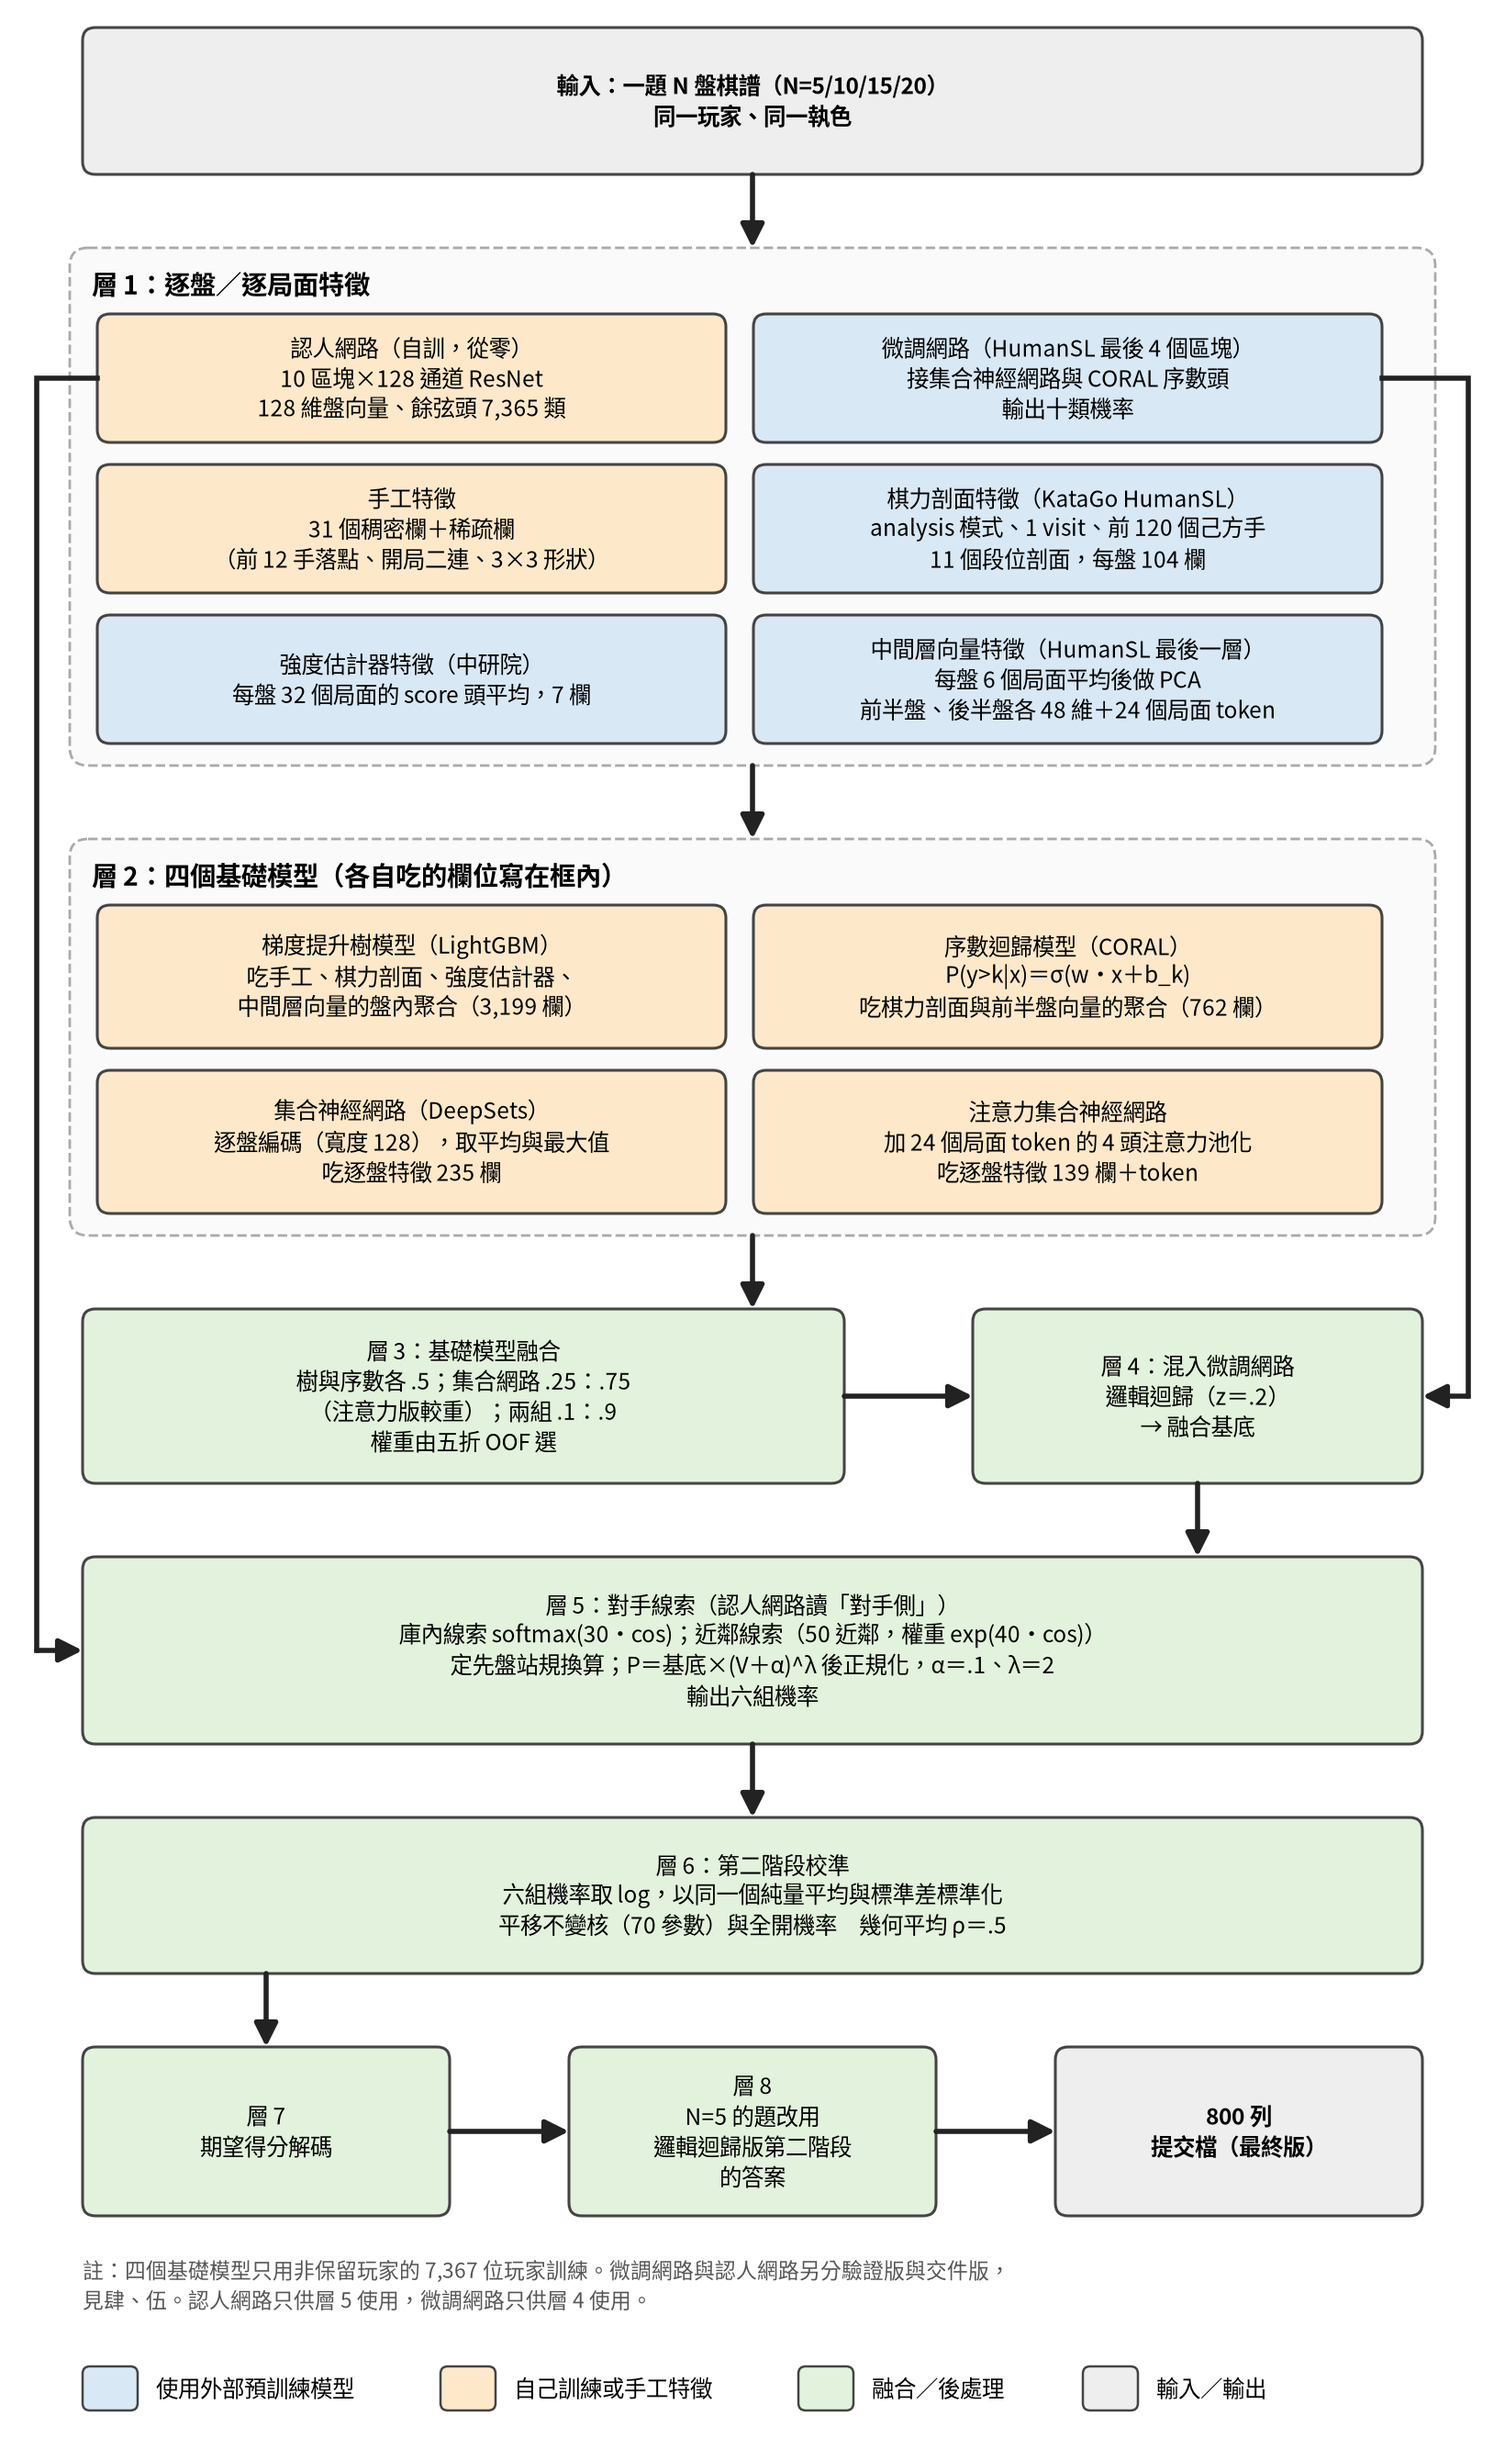
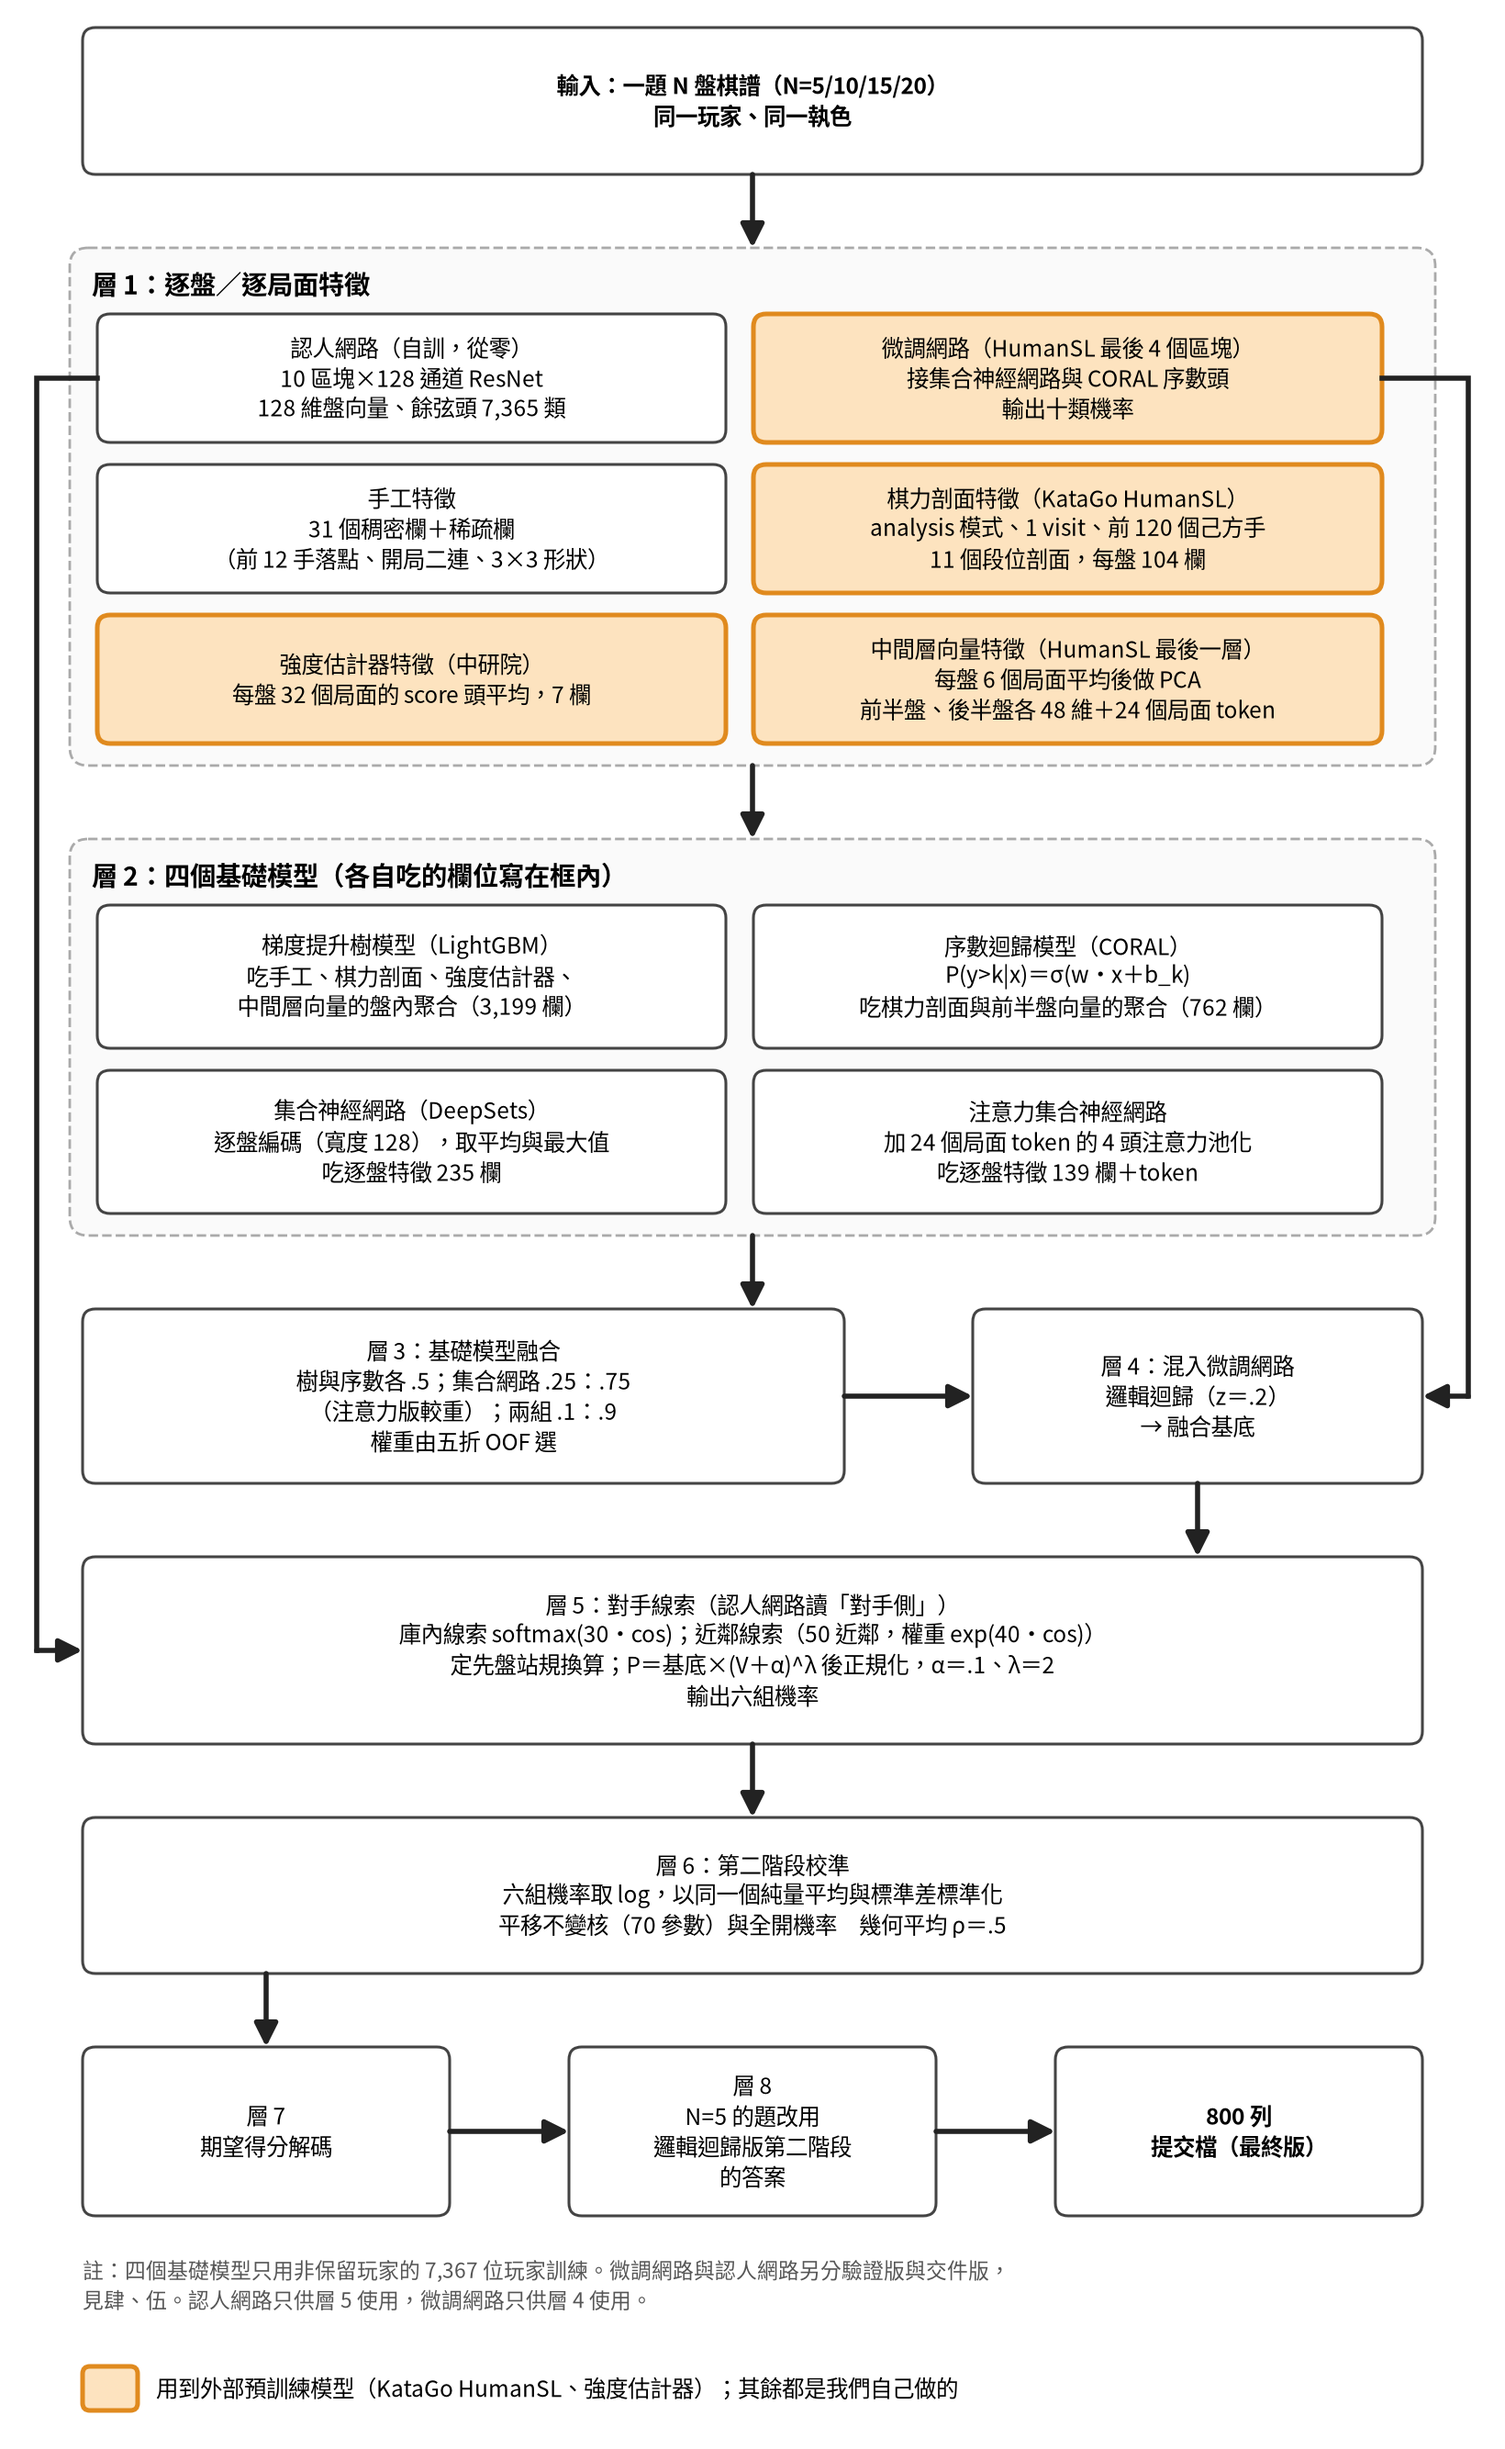
架構圖配色改為只標出外部預訓練模型

diff --git a/README.md b/README.md
@@ -21,7 +21,7 @@ English: code for AI CUP 2026 Go, task 2 (predict a player's rank level from a s
 
 每題是同一位玩家、同一執色的 5 到 20 盤棋，要預測他屬於 D、C、B、A、1D 到 6D 這十個段位的哪一個。我們先把每盤棋轉成特徵，來源有手工特徵、KataGo HumanSL 的落子統計、強度估計器分數和 KataGo 主幹向量，另外還微調了一個 HumanSL 網路直接輸出段位機率。四個基礎模型各自判斷，分別是梯度提升樹、序數迴歸和兩種集合神經網路，再融合成一組機率。接著用我們自己訓練的認人網路去認出對手是誰，把對手已知的段位當作線索加進來。最後用第二階段分類器校準六組機率，並選期望得分最高的段位，而不是機率最高的那一級。
 
-![Rank 管線架構，藍框是使用外部預訓練模型的元件](docs/architecture.png)
+![Rank 管線架構，橘框是用到外部預訓練模型的元件，其餘都是我們自己做的](docs/architecture.png)
 
 ## 快速開始
 
